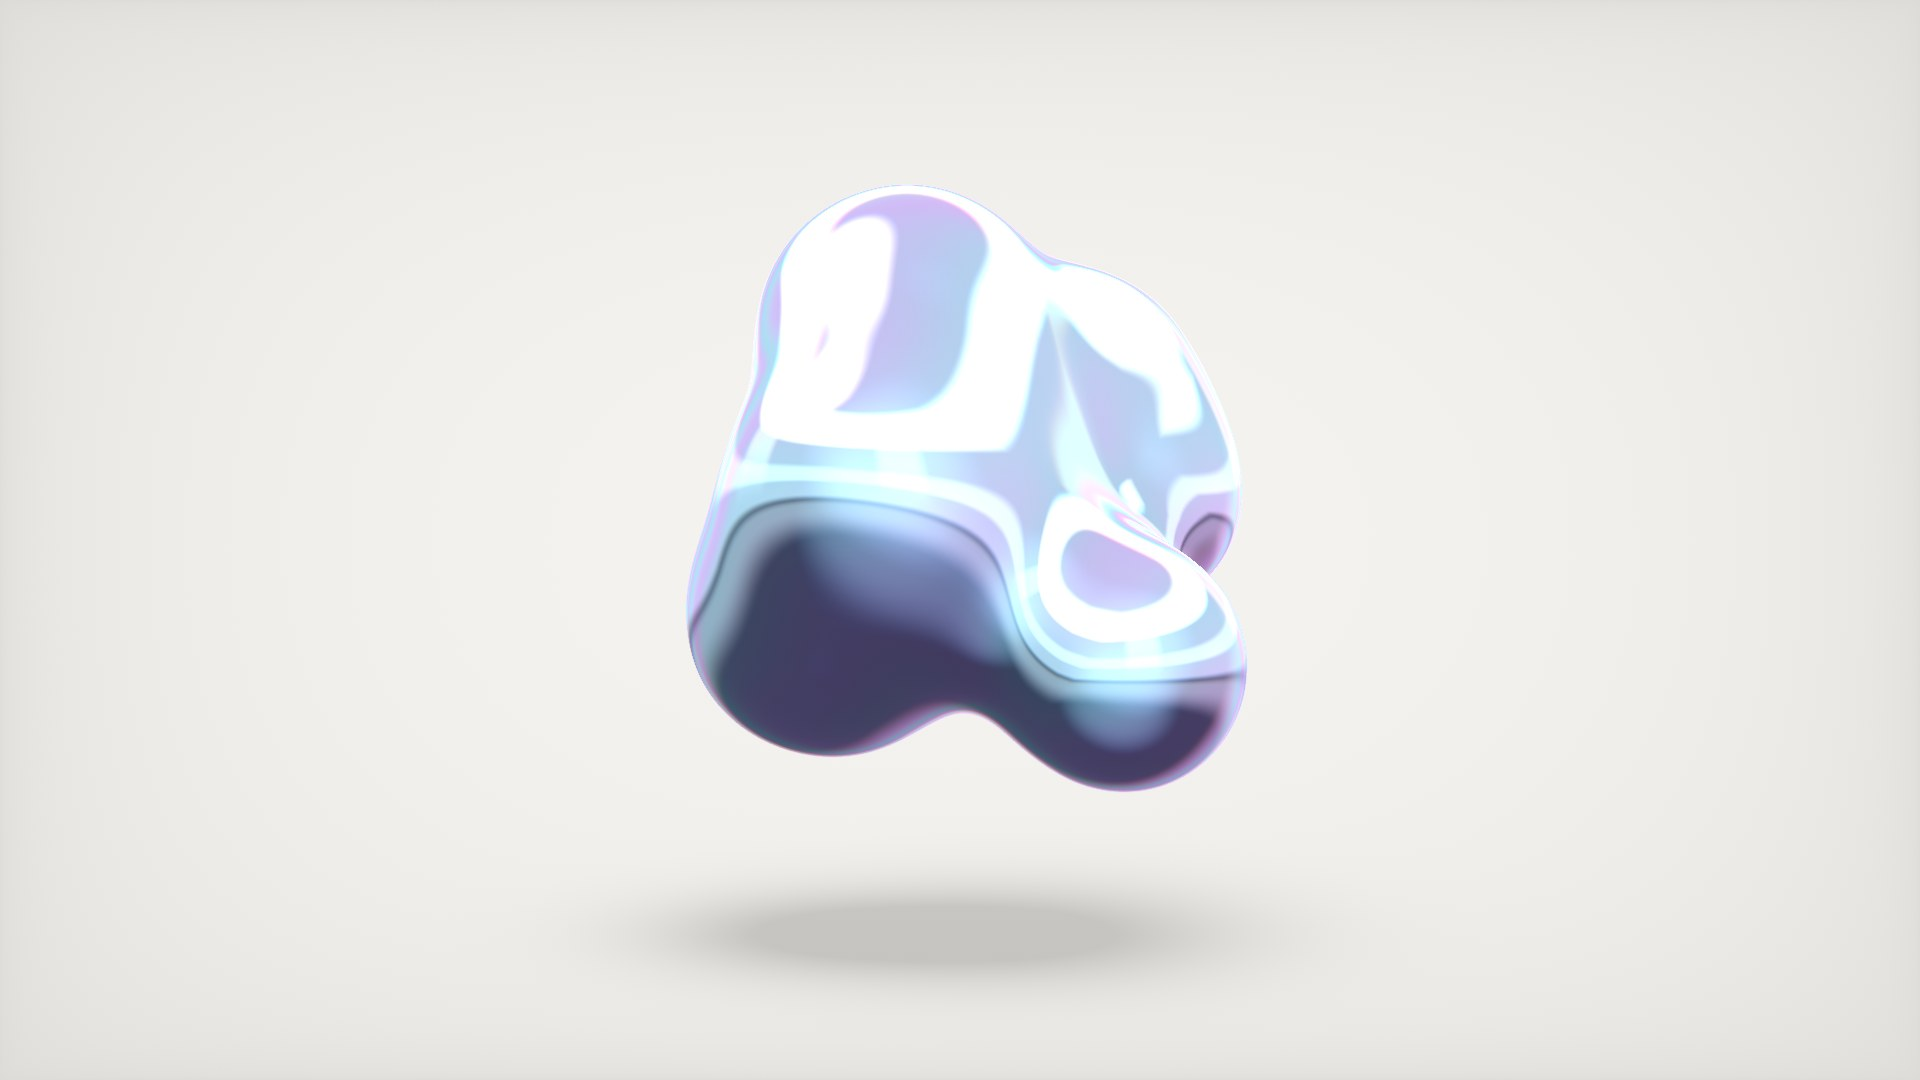
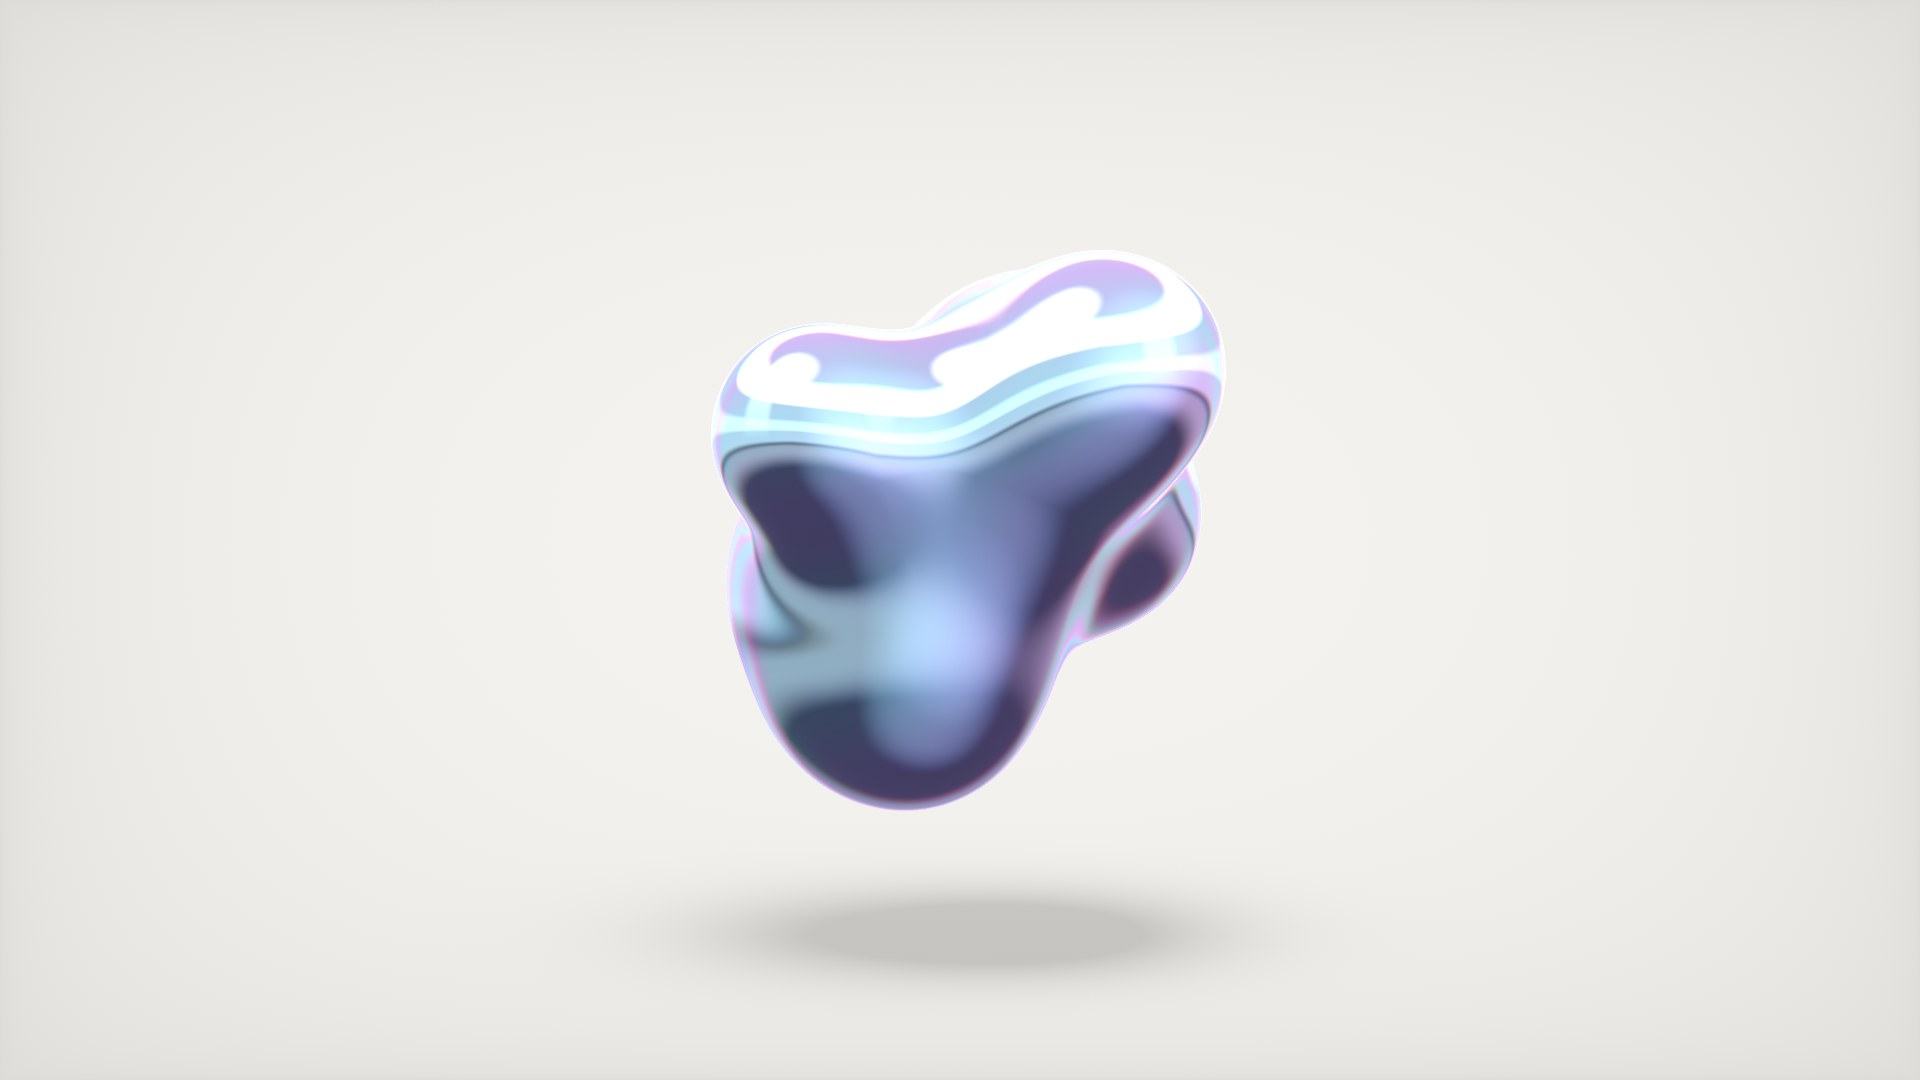
Match the morph shapes to the reference FBX meshes
Replaces the hand-guessed apple with a medical cross, and rebuilds both shapes
from proportions measured out of rocket.fbx and medicalcross.fbx rather than
eyeballed. The FBX arrays are zlib-deflated inside the binary container, so the
numbers came from parsing the files directly:

- Cross: extents +/-0.775, bar half-width ~0.29, half-thickness 0.294. The bars
  are near-square in section, which the round tapered capsule could not express
  — hence a per-part squareness that blends the cross-section between L2 and
  Chebyshev. Chebyshev is always <= length so the blend under-estimates
  distance, which is safe for sphere tracing.
- Rocket: the measured radius profile (0.214 at y -0.613, 0.365 at -0.254,
  0.404 at 0.087, 0.038 at 0.775) is a bullet, not a cylinder with a cone on
  top. Three tapered segments track that curve. Fins span -0.775 to -0.380 and
  reach r 0.53.

Body segments use squareness 0 deliberately: consecutive segments share a
radius at the joint, so any squareness facets the seam into a visible ring.

Part budget is 7. The cross only needs two, so the other five park inside the
bars with radii small enough to be swallowed — invisible there, but positioned
to sprout into the nose, fins and nozzle.

Spin is now a sway rather than a full turn. The cross is flat, and a continuous
rotation would put it edge-on half the time and destroy the read.

Poster retargeted to the blob phase; the abstract form is the better single
[…]

Changed region(s): [[0.3438, 0.1833, 0.6562, 0.7639]]

diff --git a/src/gl/shapes.ts b/src/gl/shapes.ts
@@ -2,55 +2,73 @@
  * Shape morphing.
  *
  * Every shape is built from the same fixed budget of PARTS tapered capsules —
- * a segment from `a` to `b` with a radius at each end. That one primitive
- * covers spheres (a == b), capsules (r1 == r2), cones (r2 -> 0) and tapered
- * bodies, which means morphing is a straight lerp of the parameters with no
- * primitive types to switch between. The parts physically fly into their new
- * positions and re-merge, rather than one distance field dissolving into
- * another — the difference between mercury reorganising itself and a crossfade.
+ * a segment from `a` to `b`, a radius at each end, and a squareness that blends
+ * the cross-section from round to square. That one primitive covers spheres,
+ * capsules, cones, tapered bodies and flat bars, which means morphing is a
+ * straight lerp of the parameters with no primitive types to switch between.
+ * The parts physically fly into their new positions and re-merge, rather than
+ * one distance field dissolving into another.
  *
- * Part indices are the correspondence map, so their ordering is meaningful:
- * the apple's stem becomes the rocket's nose cone, its lobes become the fins.
+ * Part indices are the correspondence map, so their ordering is meaningful.
+ *
+ * Proportions are measured from the reference FBX meshes on the desktop
+ * (rocket.fbx, medicalcross.fbx) — see the numbers in the comments below.
  */
 
-export const PARTS = 6
+export const PARTS = 7
 
-/** [ax, ay, az, r1, bx, by, bz, r2] per part. */
+/** [ax, ay, az, r1, bx, by, bz, r2, squareness] per part. */
 type Preset = readonly number[]
 
+/**
+ * Medical cross. Measured: extents ±0.775 on both axes, bar half-width ~0.29,
+ * half-thickness 0.294 — so the bars are very nearly square in section, which
+ * is what the squareness parameter is for.
+ *
+ * Only two parts are visible. The other five are parked inside the bars with
+ * radii small enough to be swallowed entirely, so they contribute nothing here
+ * but are in position to sprout into the rocket's nose, fins and nozzle.
+ */
 // prettier-ignore
-const APPLE: Preset = [
-  // body — a WIDE horizontal capsule. Built vertically it reads as a pear or a
-  // paper bag; an apple is wider than it is tall.
-  -0.14, -0.02,  0.00, 0.52,    0.14, -0.02,  0.00, 0.52,
-  // left shoulder        -> rocket's left fin
-  -0.26,  0.10,  0.00, 0.38,   -0.23,  0.18,  0.00, 0.35,
-  // right shoulder       -> rocket's right fin
-   0.26,  0.10,  0.00, 0.38,    0.23,  0.18,  0.00, 0.35,
-  // The two shoulders rise just above the body, and the valley the smin leaves
-  // between them is the dimple the stem sits in — no subtraction needed.
-  // depth lobe, rounds it out in z  -> rocket's back fin
-   0.00, -0.02, -0.20, 0.42,    0.00, -0.02,  0.20, 0.42,
-  // stem                 -> rocket's nose cone
-   0.00,  0.24,  0.00, 0.05,    0.03,  0.72,  0.00, 0.04,
-  // leaf                 -> rocket's tail nozzle
-   0.06,  0.56,  0.00, 0.13,    0.36,  0.68,  0.05, 0.03,
+const CROSS: Preset = [
+  // vertical bar                    -> rocket lower body
+   0.00, -0.49,  0.00, 0.29,    0.00,  0.49,  0.00, 0.29,   0.85,
+  // horizontal bar                  -> rocket mid body
+  -0.49,  0.00,  0.00, 0.29,    0.49,  0.00,  0.00, 0.29,   0.85,
+  // parked, becomes the nose cone
+   0.00,  0.10,  0.00, 0.16,    0.00,  0.35,  0.00, 0.10,   0.50,
+  // parked, becomes fin A
+  -0.15, -0.30,  0.00, 0.09,   -0.05, -0.10,  0.00, 0.09,   0.30,
+  // parked, becomes fin B
+   0.15, -0.30,  0.00, 0.09,    0.05, -0.10,  0.00, 0.09,   0.30,
+  // parked, becomes fin C
+   0.00, -0.30, -0.15, 0.09,    0.00, -0.10, -0.05, 0.09,   0.30,
+  // parked, becomes the tail nozzle
+   0.00, -0.35,  0.00, 0.14,    0.00, -0.50,  0.00, 0.10,   0.40,
 ]
 
+/**
+ * Rocket. Measured radius profile along the body: 0.214 at y -0.613, 0.365 at
+ * -0.254, widening to 0.404 at 0.087, then 0.305 at 0.386 and a 0.038 point at
+ * 0.775. So it is a bullet, not a cylinder with a cone stuck on — three tapered
+ * segments track that curve. Fins span y -0.775 to -0.380 and reach r 0.53.
+ */
 // prettier-ignore
 const ROCKET: Preset = [
-  // fuselage
-   0.00, -0.50,  0.00, 0.30,    0.00,  0.26,  0.00, 0.27,
-  // left fin
-  -0.44, -0.64,  0.00, 0.05,   -0.06, -0.12,  0.00, 0.12,
-  // right fin
-   0.44, -0.64,  0.00, 0.05,    0.06, -0.12,  0.00, 0.12,
-  // back fin
-   0.00, -0.64, -0.44, 0.05,    0.00, -0.12, -0.06, 0.12,
+  // lower body
+   0.00, -0.62,  0.00, 0.215,   0.00, -0.25,  0.00, 0.365,  0.00,
+  // mid body, widest point
+   0.00, -0.25,  0.00, 0.365,   0.00,  0.10,  0.00, 0.404,  0.00,
   // nose cone
-   0.00,  0.26,  0.00, 0.27,    0.00,  0.86,  0.00, 0.02,
+   0.00,  0.10,  0.00, 0.404,   0.00,  0.78,  0.00, 0.025,  0.00,
+  // fin A
+  -0.50, -0.78,  0.00, 0.05,   -0.10, -0.36,  0.00, 0.13,   0.80,
+  // fin B
+   0.50, -0.78,  0.00, 0.05,    0.10, -0.36,  0.00, 0.13,   0.80,
+  // fin C
+   0.00, -0.78, -0.50, 0.05,    0.00, -0.36, -0.10, 0.13,   0.80,
   // tail nozzle
-   0.00, -0.50,  0.00, 0.23,    0.00, -0.70,  0.00, 0.13,
+   0.00, -0.62,  0.00, 0.20,    0.00, -0.80,  0.00, 0.11,   0.00,
 ]
 
 /**
@@ -66,7 +84,7 @@ interface Stage {
 
 const TIMELINE: readonly Stage[] = [
   { shape: null, hold: 4.5, morph: 1.5 },
-  { shape: APPLE, hold: 3.0, morph: 1.4 },
+  { shape: CROSS, hold: 3.0, morph: 1.4 },
   { shape: ROCKET, hold: 3.0, morph: 1.5 },
 ]
 
@@ -81,11 +99,14 @@ const WOBBLE_BLOB = 0.012
 // smin blend between parts: tight when a shape is held so it stays legible,
 // loose mid-morph so the parts melt together on the way.
 const K_HELD = 0.05
-const K_MORPH = 0.17
+const K_MORPH = 0.20
+
+const STRIDE = 9
 
 export interface ShapeSample {
   partA: Float32Array
   partB: Float32Array
+  partSq: Float32Array
   /** 0 = pure blob, 1 = pure shape. */
   mix: number
   k: number
@@ -99,15 +120,20 @@ const lerp = (a: number, b: number, t: number) => a + (b - a) * t
 export function createShapeSampler() {
   const partA = new Float32Array(PARTS * 4)
   const partB = new Float32Array(PARTS * 4)
-  const out: ShapeSample = { partA, partB, mix: 0, k: K_HELD, wobble: WOBBLE_BLOB, spin: 0 }
+  const partSq = new Float32Array(PARTS)
+  const out: ShapeSample = {
+    partA, partB, partSq,
+    mix: 0, k: K_HELD, wobble: WOBBLE_BLOB, spin: 0,
+  }
 
   function write(from: Preset, to: Preset, t: number) {
     for (let i = 0; i < PARTS; i++) {
-      const o = i * 8
+      const o = i * STRIDE
       for (let c = 0; c < 4; c++) {
         partA[i * 4 + c] = lerp(from[o + c]!, to[o + c]!, t)
         partB[i * 4 + c] = lerp(from[o + 4 + c]!, to[o + 4 + c]!, t)
       }
+      partSq[i] = lerp(from[o + 8]!, to[o + 8]!, t)
     }
   }
 
@@ -150,9 +176,10 @@ export function createShapeSampler() {
       WOBBLE_MORPH,
       heat,
     )
-    // Slow turn so the silhouette reads in three dimensions; shapes stay
-    // upright rather than tumbling, or they stop being recognisable.
-    out.spin = time * 0.35
+    // A sway rather than a full turn. The cross is flat, so a continuous
+    // rotation would put it edge-on half the time and destroy the read; this
+    // still gives enough parallax to show the shapes are solid.
+    out.spin = Math.sin(time * 0.32) * 0.55
 
     return out
   }

diff --git a/src/gl/renderer.ts b/src/gl/renderer.ts
@@ -43,8 +43,9 @@ const MOBILE: Quality = { maxSteps: 72, balls: 5, aoTaps: 3, maxDpr: 1.5 }
 const MIN_SCALE = 0.55
 const MAX_SCALE = 1.0
 
-/** A frame of the animation that happens to be nicely composed, for still renders. */
-export const POSTER_TIME = 12.4
+/** A nicely composed frame for still renders. Sits in the blob phase of the
+ *  morph cycle — the abstract form is the better single image for a fallback. */
+export const POSTER_TIME = 2.4
 
 function srgbToLinear(hex: string): [number, number, number] {
   const n = parseInt(hex.replace('#', ''), 16)
@@ -178,6 +179,7 @@ export function createRenderer(
     balls: gl.getUniformLocation(program, 'uBalls'),
     partA: gl.getUniformLocation(program, 'uPartA'),
     partB: gl.getUniformLocation(program, 'uPartB'),
+    partSq: gl.getUniformLocation(program, 'uPartSq'),
     shapeMix: gl.getUniformLocation(program, 'uShapeMix'),
     shapeK: gl.getUniformLocation(program, 'uShapeK'),
     shapeSpin: gl.getUniformLocation(program, 'uShapeSpin'),
@@ -276,6 +278,7 @@ export function createRenderer(
     const shape = sampleShape(time)
     gl!.uniform4fv(u.partA, shape.partA)
     gl!.uniform4fv(u.partB, shape.partB)
+    gl!.uniform1fv(u.partSq, shape.partSq)
     gl!.uniform1f(u.shapeMix, shape.mix)
     gl!.uniform1f(u.shapeK, shape.k)
     gl!.uniform1f(u.shapeSpin, shape.spin)
